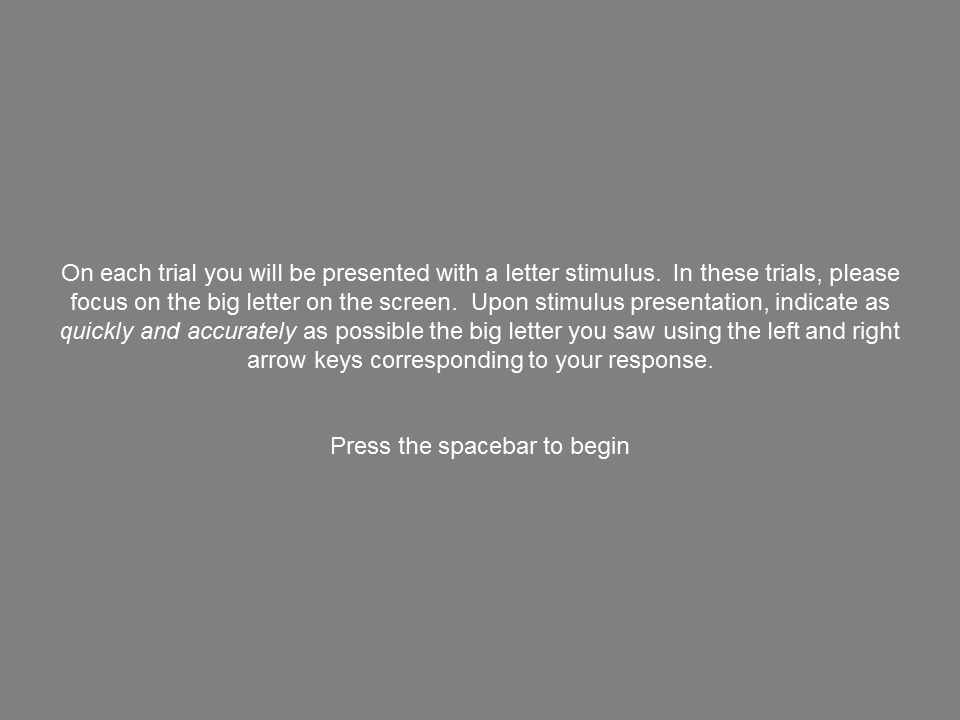
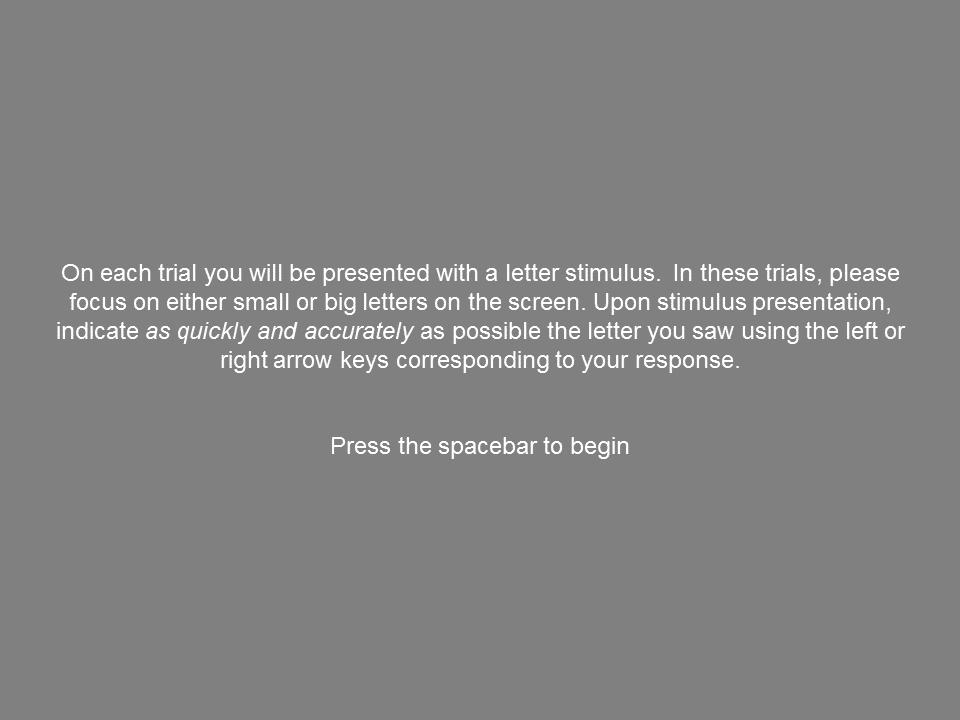
a few fixes and improvements

Changed region(s): [[0.0625, 0.3972, 0.9375, 0.5194]]

diff --git a/experiment_part.py b/experiment_part.py
@@ -39,6 +39,8 @@ class ExperimentPart(object):
         self.clock = core.Clock()
 
         self.instructions = visual.ImageStim(win = self.win)
+        self.finished_experiment_txt = visual.TextStim(self.win, text = 'Done!')
+        self.stopped_experiment_txt = visual.TextStim(self.win, text = 'Continuing...')
 
         self.stim = visual.ImageStim(
             win = self.win,
@@ -80,6 +82,24 @@ class ExperimentPart(object):
             return False
         return True
 
+
+    def finished_experiment(self, pause = 3):
+
+        self.finished = True
+        logger.info('finished experiment {}'.format(str(self)))
+        self.finished_experiment_txt.draw()
+        self.win.flip()
+        core.wait(pause)
+
+
+    def stopped_experiment(self, pause = 1):
+
+        logger.info('stopped experiment {}'.format(str(self)))
+        self.stopped_experiment.draw()
+        self.win.flip()
+        core.wait(pause)
+
+
     def export_results(self, filename, *extralines):
 
         while os.path.isfile(filename):
@@ -96,6 +116,7 @@ class ExperimentPart(object):
 
             writer.writerow( ['Experiment:', str(self)] )
             writer.writerow( ['Participant:', self.id] )
+            writer.writerow( ['Finished:', self.finished])
             writer.writerow( ['Date:', self.datetime.strftime('%d %B %Y')] )
             exp_time = datetime.datetime.now()
             writer.writerow( ['Time:', self.datetime.strftime('%H:%M:%S'), exp_time.strftime('%H:%M:%S')] )
@@ -182,11 +203,14 @@ class ColourTest(ExperimentPart):
             response, latency = self.run_trial(image)
 
             if response == 'stop':
-                logger.info('broke from the experiment')
+                self.stopped_experiment()
                 return
 
             self.responses.append( (i, self.correct_responses[i], response, latency) )
             logger.info('ran trial: {}'.format(self.responses[-1]))
+
+        self.finished_experiment()
+
 
 
 
@@ -308,8 +332,8 @@ class ContrastDetection(ExperimentPart):
             #Run the trial
             response, increment = self.run_trial(kind)
             if response == 'stop':
-                logger.info('broke from the experiment')
-                break
+                self.stopped_experiment()
+                return
 
             self.responses.append( (i, kind, os.path.split(img)[1], list(cur_grey), response) )
             logger.info('ran trial: {}'.format(self.responses[-1]))
@@ -321,9 +345,7 @@ class ContrastDetection(ExperimentPart):
                     detects += 1
             i += 1
 
-        self.win.flip()
-        core.wait(2)
-        self.finished = True
+        self.finished_experiment()
 
 
 
@@ -416,7 +438,9 @@ class IsoluminanceDetection(ExperimentPart):
             core.wait(self.t_poststim)
 
             if np.any(iso_col == 'stop'):
+                logger.info('stopped block {}'.format(kind))
                 return
+
             self.responses.append( (i, kind, os.path.split(img)[1], list(iso_col)) )
             logger.info('ran trial: {}'.format(self.responses[-1]))
 
@@ -437,9 +461,7 @@ class IsoluminanceDetection(ExperimentPart):
             np.random.shuffle(images_seq)
             self.run_block(kind, images_seq)
 
-        self.win.flip()
-        core.wait(2)
-        self.finished = True
+        self.finished_experiment()
 
 
 
@@ -590,14 +612,12 @@ class FreeChoiceExperiment(ExperimentPart):
         for n, img in enumerate(images_seq):
             resp, lat = self.run_trial(img)
             if resp == 'stop':
-                logger.info('stopped experiment')
-                break
+                self.stopped_experiment()
+                return
             self.responses.append( (n, img.cond, img.name, resp, lat) )
             logger.info('ran trial {}'.format(self.responses[-1]))
 
-        self.win.flip()
-        core.wait(2)
-        self.finished = True
+        self.finished_experiment()
 
 
 
@@ -698,9 +718,7 @@ class DividedAttentionExperiment(FreeChoiceExperiment):
                 seq = reversed(seq)
             self.run_block(block, seq)
 
-        self.win.flip()
-        core.wait(2)
-        self.finished = True
+        self.finished_experiment()
 
 
 class SelectiveAttentionExperiment(DividedAttentionExperiment):
@@ -754,9 +772,13 @@ class SelectiveAttentionExperiment(DividedAttentionExperiment):
 
     def run_block(self, kind, imgs_seq):
 
-        if kind[1] == 'local':
+        if kind == ('practice', 'local'):
+            img = self.instructions_img_local_practice
+        elif kind == ('practice', 'global'):
+            img = self.instructions_img_global_practice
+        elif kind == ('experimental', 'local'):
             img = self.instructions_img_local
-        elif kind[1] == 'global':
+        elif kind == ('experimental', 'global'):
             img = self.instructions_img_global
 
         start = self.show_instructions(img)
@@ -782,10 +804,10 @@ class SelectiveAttentionExperiment(DividedAttentionExperiment):
         self.colheaders = ['#', 'BlockType', 'Condition', 'Stimulus', 'Response', 'Latency']
         self.keylist = [self.left_key, self.right_key, 'escape']
 
-        # start = self.show_instructions(self.instructions_text)
-        # if not start:
-        #     logger.info('did not start the experiment')
-        #     return
+        start = self.show_instructions(self.instructions_img)
+        if not start:
+            logger.info('did not start the experiment')
+            return
         logger.info('started the experiment')
 
         total_blocks = self.n_practice_blocks + self.n_blocks
@@ -810,9 +832,7 @@ class SelectiveAttentionExperiment(DividedAttentionExperiment):
                 seq = reversed(seq)
             self.run_block(block, seq)
 
-        self.win.flip()
-        core.wait(2)
-        self.finished = True
+        self.finished_experiment()
 
 
 

diff --git a/test_experiment_part.py b/test_experiment_part.py
@@ -18,7 +18,7 @@ class TestExperimentPart(unittest.TestCase):
         _id = '__test__'
         # os.makedirs('./__test__/stimuli')
 
-        mon = load_monitor(cls.params['Monitors']['BENQ'])
+        mon = load_monitor(cls.params['Monitors'][cls.params['current_monitor']])
         cls.win = visual.Window(
             size = mon.getSizePix(),
             monitor = mon,
@@ -108,8 +108,8 @@ class TestExperimentPart(unittest.TestCase):
         logger.info('dropped {} frames: {}%'.format(self.win.nDroppedFrames, self.win.nDroppedFrames*100.0/frame))
         logger.info('timing error is {}'.format(dt - t))
         self.assertAlmostEqual(dt, t, delta = 0.5, msg = 'Large timing error: {}, should be {} sec'.format(dt, t))
-        
-        
+
+
     def test_flicker(self):
         self.win.nDroppedFrames = 0
         img = os.path.join('.', 'images', 'circle.png')
@@ -147,11 +147,11 @@ class TestExperimentPart(unittest.TestCase):
         fints = np.array(self.win.frameIntervals) * 1000
         t1 = fints.mean() - fints.std()
         t2 = fints.mean() + fints.std()
-        
+
         logger.info('Flicker frequency is {}'.format(cycles_per_sec))
         logger.info('dropped {} frames: {}%'.format(self.win.nDroppedFrames, self.win.nDroppedFrames*100.0/frame))
         logger.info('{} +- {} ms to refresh each frame, should be {}'.format(fints.mean(), fints.std(), msperframe))
-        
+
         self.assertTrue(t1 < msperframe < t2, 'Strange refresh period ({}, should be {})'.format(fints.mean(), msperframe))
         self.assertEqual(self.isolum.flicker_fs, cycles_per_sec, 'Strange flicker rate: set to {}, but actually is {}'.format(self.isolum.flicker_fs, cycles_per_sec))
         self.assertLessEqual(2.0 * self.isolum.flicker_fs, self.win.monitor.refresh_rate, 'Flicker frequency cannot be greater than half the monitor fs: set to {}'.format(self.isolum.flicker_fs))
@@ -175,7 +175,7 @@ class TestExperimentPart(unittest.TestCase):
             bg.draw()
             stim.draw()
             self.win.flip()
-            
+
         logger.info('dropped {} frames: {}%'.format(self.win.nDroppedFrames, self.win.nDroppedFrames*100.0/(t*self.win.monitor.refresh_rate)))
 
 
